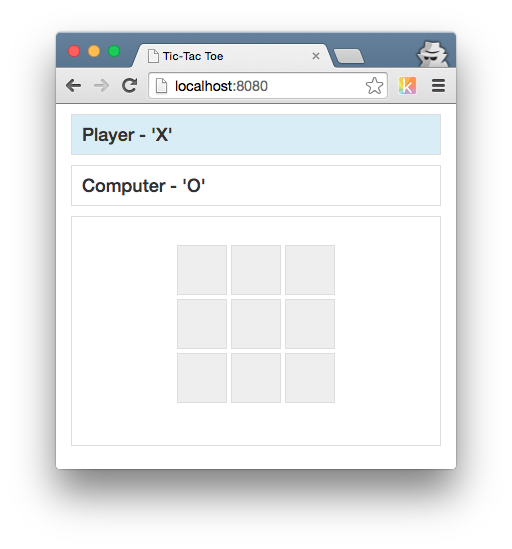
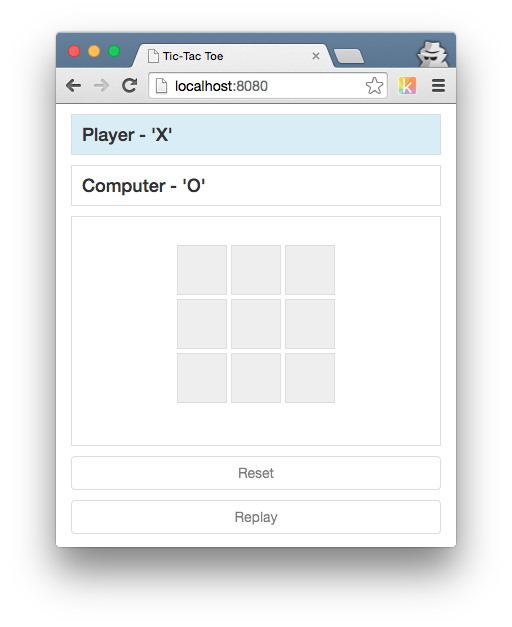
update screenshot & tweak button styles

diff --git a/dist/css/styles.css b/dist/css/styles.css
@@ -69,7 +69,7 @@
 }
 
 /* Controls */
-.controls {
+.controls button {
   margin-top: 10px;
 }
 

diff --git a/src/styles.css b/src/styles.css
@@ -69,7 +69,7 @@
 }
 
 /* Controls */
-.controls {
+.controls button {
   margin-top: 10px;
 }
 
